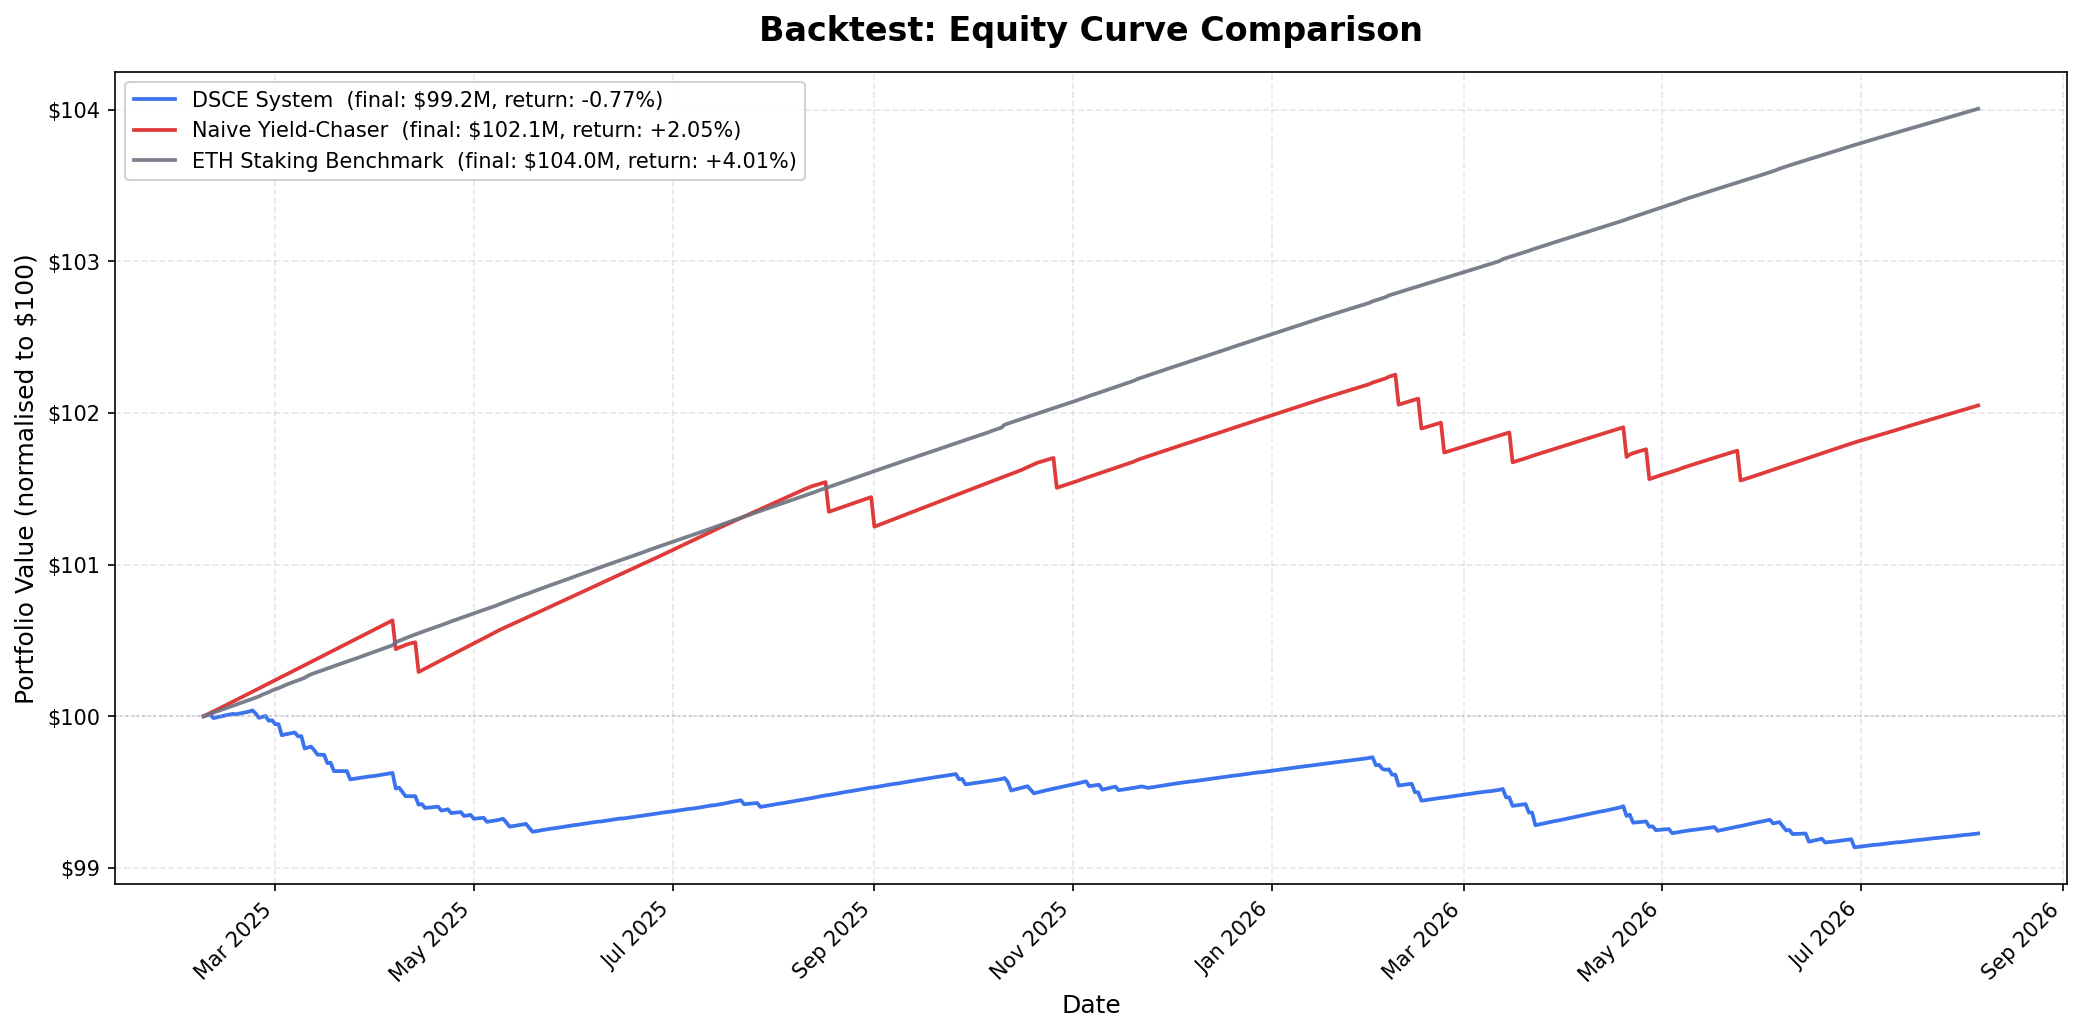
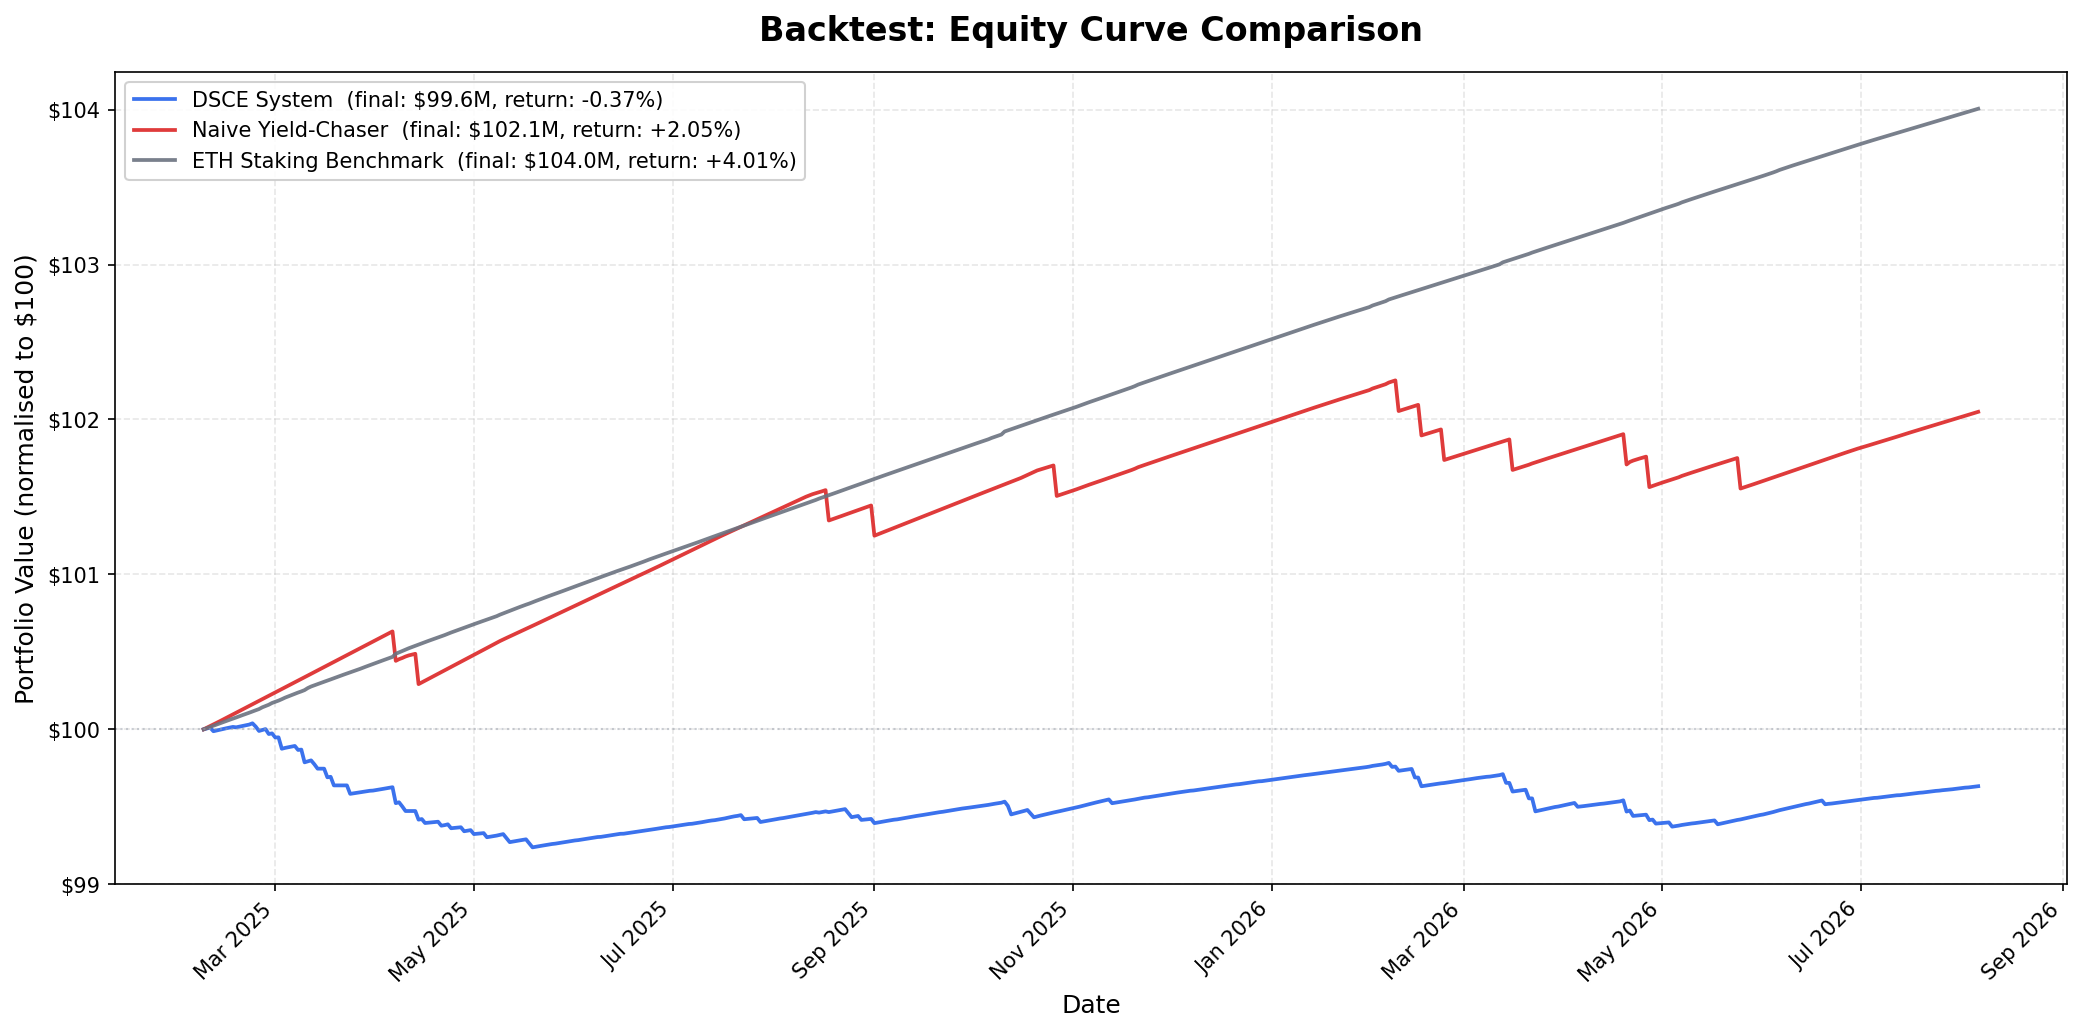
fix: resolve holdout performance metric bugs, image rendering, and markdown layout

diff --git a/backtest/run_backtest.py b/backtest/run_backtest.py
@@ -97,7 +97,7 @@ def prepare_engine_dataset(fetched_data) -> EngineDataset:
             il_data = il_data.reindex(date_range).ffill().fillna(0)
 
     # Remove timezone info from index if present (engine uses naive timestamps)
-    for df_ref in [tvl_data, apy_data]:
+    for df_ref in [tvl_data, apy_data, fetched_data.eth_price]:
         if hasattr(df_ref.index, 'tz') and df_ref.index.tz is not None:
             df_ref.index = df_ref.index.tz_localize(None)
     if il_data is not None and hasattr(il_data.index, 'tz') and il_data.index.tz is not None:
@@ -144,6 +144,26 @@ def main():
     print(f">> Done ({time.time() - start_time:.1f}s)")
     print()
 
+    # ── Step 2.5: Run Holdout Simulation ────────────────────────────
+    print(">> Step 2.5/5: Running holdout simulation...")
+    # Create holdout dataset (last 180 days)
+    holdout_start = engine_dataset.tvl_data.index[-1] - pd.Timedelta(days=180)
+    holdout_tvl = engine_dataset.tvl_data.loc[holdout_start:].copy()
+    holdout_apy = engine_dataset.apy_data.loc[holdout_start:].copy()
+    holdout_eth_price = engine_dataset.eth_price.loc[holdout_start:].copy()
+    holdout_il = engine_dataset.il_data.loc[holdout_start:].copy() if engine_dataset.il_data is not None else None
+    
+    holdout_dataset = EngineDataset(
+        tvl_data=holdout_tvl,
+        apy_data=holdout_apy,
+        eth_price=holdout_eth_price,
+        il_data=holdout_il,
+    )
+    result_holdout = run_backtest(holdout_dataset)
+    print(f"    Simulated holdout period: {(result_holdout.end_date - result_holdout.start_date).days} days")
+    print(f">> Done ({time.time() - start_time:.1f}s)")
+    print()
+
     # ── Step 3: Compute Metrics ─────────────────────────────────────
     print(">> Step 3/5: Computing metrics...")
 
@@ -187,31 +207,27 @@ def main():
         rebalance_counts=result.strategy_rebalances,
     )
     
-    # Slice for Holdout Period (last 180 days)
-    holdout_curves = {}
-    holdout_returns = {}
-    for name, curve in result.equity_curves.items():
-        if len(curve) > 180:
-            holdout_curves[name] = curve.iloc[-180:]
-        else:
-            holdout_curves[name] = curve
-            
-    for name, rets in result.daily_returns.items():
-        if len(rets) > 180:
-            holdout_returns[name] = rets.iloc[-180:]
-        else:
-            holdout_returns[name] = rets
+    # Calculate holdout benchmark APY properly
+    eth_staking_curve_holdout = result_holdout.equity_curves.get(
+        "ETH Staking Benchmark",
+        result_holdout.equity_curves.get("ETH Staking", pd.Series(dtype=float))
+    )
+    if len(eth_staking_curve_holdout) > 1:
+        avg_eth_return_holdout = eth_staking_curve_holdout.pct_change().mean()
+        avg_eth_apy_holdout = avg_eth_return_holdout * 365
+    else:
+        avg_eth_apy_holdout = 0.035
             
     metrics_holdout = compute_all_metrics(
-        equity_curves=holdout_curves,
-        daily_returns=holdout_returns,
-        trigger_log=[],  # Simplified for holdout just to get returns
+        equity_curves=result_holdout.equity_curves,
+        daily_returns=result_holdout.daily_returns,
+        trigger_log=[],  # Simplified for holdout just to get returns and costs
         pool_apy=fetched_data.pool_apy,
         pool_tvl=fetched_data.protocol_tvl,
-        eth_staking_apy=avg_eth_apy,
-        gas_costs={},  # Not recalculating exact gas for holdout
-        slippage_costs={},
-        rebalance_counts={},
+        eth_staking_apy=avg_eth_apy_holdout,
+        gas_costs=result_holdout.strategy_gas,
+        slippage_costs=result_holdout.strategy_slippage,
+        rebalance_counts=result_holdout.strategy_rebalances,
     )
 
     print(f"    Strategies analysed: {list(metrics.strategy_metrics.keys())}")

diff --git a/backtest/output/backtest_report.md b/backtest/output/backtest_report.md
@@ -1,6 +1,6 @@
 # DeFi Strategy Backtest Report
 
-**Generated**: 2026-08-06 18:58 UTC
+**Generated**: 2026-08-06 19:22 UTC
 **Backtest Period**: 2025-02-07 to 2026-08-06
 **Trading Days**: 545
 
@@ -48,21 +48,21 @@ exit, a 7-day cooldown prevents re-entry into that protocol.
 
 ## 2. Executive Summary
 
-**The DSCE system underperformed both alternatives**, returning -0.77% vs +2.05% (naive yield-chasing) and +4.01% (ETH staking). This is a finding worth examining — it suggests the risk triggers may have been too sensitive, causing exits that cost more in missed yield than they saved in avoided losses. Even on a risk-adjusted basis, naive yield-chasing (Sharpe -2.25) edged out DSCE (-11.17).
+**The DSCE system underperformed both alternatives**, returning -0.37% vs +2.05% (naive yield-chasing) and +4.01% (ETH staking). This is a finding worth examining — it suggests the risk triggers may have been too sensitive, causing exits that cost more in missed yield than they saved in avoided losses. Even on a risk-adjusted basis, naive yield-chasing (Sharpe -2.25) edged out DSCE (-11.09).
 
 ## 3. Performance Comparison
 
 | Metric | DSCE System | Naive Yield-Chaser | ETH Staking |
 | --- | --- | --- | --- |
-| Total Return | -0.77% | +2.05% | +4.01% |
-| CAGR | -0.52% | 1.37% | 2.67% |
-| Sharpe Ratio | -11.167 | -2.253 | -0.222 |
-| Max Drawdown | -0.90% | -0.68% | 0.00% |
-| Max DD Date | 2026-06-29 | 2026-05-25 | 2025-02-07 |
-| Annual Volatility | 0.28% | 0.56% | 0.02% |
-| Final NAV | $99.23M | $102.06M | $104.01M |
-| Gas Costs | $1,835 | $120 | $0 |
-| Slippage Costs | $2,573,135 | $2,437,969 | $0 |
+| Total Return | -0.37% | +2.05% | +4.01% |
+| CAGR | -0.25% | 1.37% | 2.67% |
+| Sharpe Ratio | -11.090 | -2.253 | -0.222 |
+| Max Drawdown | -0.80% | -0.68% | 0.00% |
+| Max DD Date | 2025-05-19 | 2026-05-25 | 2025-02-07 |
+| Annual Volatility | 0.26% | 0.56% | 0.02% |
+| Final NAV | $99.64M | $102.06M | $104.01M |
+| Gas Costs | $1,785 | $120 | $0 |
+| Slippage Costs | $2,190,148 | $2,437,969 | $0 |
 | Rebalances | 78 | 12 | 0 |
 
 ### Holdout Window Performance (Final 6 Months)
@@ -71,16 +71,16 @@ exit, a 7-day cooldown prevents re-entry into that protocol.
 
 | Metric | DSCE System | Naive Yield-Chaser | ETH Staking |
 | --- | --- | --- | --- |
-| Total Return | -0.39% | -0.20% | +1.18% |
-| CAGR | -0.79% | -0.40% | 2.43% |
-| Sharpe Ratio | -10.817 | -4.072 | -19.515 |
-| Max Drawdown | -0.48% | -0.68% | 0.00% |
-| Max DD Date | 2026-06-29 | 2026-05-25 | 2026-02-08 |
-| Annual Volatility | 0.32% | 0.74% | 0.01% |
-| Final NAV | $99.23M | $102.06M | $104.01M |
-| Gas Costs | $0 | $0 | $0 |
-| Slippage Costs | $0 | $0 | $0 |
-| Rebalances | 0 | 0 | 0 |
+| Total Return | -0.01% | -0.19% | +1.19% |
+| CAGR | -0.03% | -0.39% | 2.43% |
+| Sharpe Ratio | -9.304 | -3.770 | -0.884 |
+| Max Drawdown | -0.37% | -0.68% | 0.00% |
+| Max DD Date | 2026-05-04 | 2026-05-25 | 2026-02-07 |
+| Annual Volatility | 0.26% | 0.74% | 0.01% |
+| Final NAV | $99.99M | $99.81M | $101.20M |
+| Gas Costs | $595 | $70 | $0 |
+| Slippage Costs | $632,648 | $1,395,287 | $0 |
+| Rebalances | 26 | 7 | 0 |
 
 ### Equity Curves
 
@@ -88,15 +88,15 @@ exit, a 7-day cooldown prevents re-entry into that protocol.
 
 ## 4. Trigger Analysis (DSCE System)
 
-**Total trigger fires**: 50
+**Total trigger fires**: 41
 
 | Trigger Type | Fires | True Positives | False Alarms |
 | --- | --- | --- | --- |
 | apy_anomaly | 27 | 11 | 16 |
-| tvl_drop | 23 | 12 | 11 |
-| **Total** | **50** | **23** | **27** |
+| tvl_drop | 14 | 9 | 5 |
+| **Total** | **41** | **20** | **21** |
 
-**Precision**: 46.0% (fraction of trigger fires that were true positives)
+**Precision**: 48.8% (fraction of trigger fires that were true positives)
 
 ### Trigger Fire Log
 
@@ -123,35 +123,26 @@ exit, a 7-day cooldown prevents re-entry into that protocol.
 | 2025-05-10 | curve-dex | apy_anomaly | WARNING | 100.6 | ❌ false_alarm | — |
 | 2025-05-17 | curve-dex | apy_anomaly | WARNING | 50.1 | ❌ false_alarm | — |
 | 2025-07-22 | curve-dex | apy_anomaly | WARNING | 91.4 | ✅ true_positive | — |
-| 2025-09-26 | morpho | tvl_drop | WARNING | -15.5 | ❌ false_alarm | — |
-| 2025-09-26 | lido | tvl_drop | WARNING | -15.7 | ❌ false_alarm | — |
+| 2025-08-14 | morpho | tvl_drop | WARNING | -15.3 | ❌ false_alarm | — |
+| 2025-08-23 | curve-dex | tvl_drop | WARNING | -16.4 | ✅ true_positive | — |
+| 2025-08-27 | curve-dex | tvl_drop | WARNING | -18.0 | ✅ true_positive | — |
 | 2025-10-11 | lido | apy_anomaly | WARNING | 173.1 | ❌ false_alarm | — |
 | 2025-10-18 | lido | apy_anomaly | WARNING | 63.2 | ❌ false_alarm | — |
-| 2025-11-05 | aave | tvl_drop | WARNING | -16.8 | ✅ true_positive | — |
-| 2025-11-05 | lido | tvl_drop | WARNING | -17.4 | ✅ true_positive | — |
-| 2025-11-14 | pendle | tvl_drop | WARNING | -16.7 | ✅ true_positive | — |
-| 2025-11-22 | morpho | tvl_drop | WARNING | -17.4 | ❌ false_alarm | — |
-| 2026-02-02 | lido | tvl_drop | WARNING | -17.0 | ✅ true_positive | — |
-| 2026-02-03 | lido | tvl_drop | WARNING | -18.4 | ✅ true_positive | — |
-| 2026-02-04 | aave | tvl_drop | WARNING | -15.1 | ✅ true_positive | — |
+| 2025-11-12 | pendle | tvl_drop | WARNING | -15.9 | ✅ true_positive | — |
 | 2026-02-06 | curve-dex | apy_anomaly | WARNING | 211.9 | ❌ false_alarm | — |
-| 2026-02-06 | morpho | tvl_drop | WARNING | -16.9 | ❌ false_alarm | — |
 | 2026-02-13 | lido | apy_anomaly | WARNING | 40.0 | ✅ true_positive | — |
 | 2026-02-13 | curve-dex | apy_anomaly | WARNING | 59.6 | ❌ false_alarm | — |
 | 2026-03-13 | lido | apy_anomaly | WARNING | 95.2 | ❌ false_alarm | — |
 | 2026-03-13 | curve-dex | apy_anomaly | WARNING | 135.6 | ❌ false_alarm | — |
 | 2026-03-20 | lido | apy_anomaly | WARNING | 46.4 | ✅ true_positive | — |
 | 2026-03-20 | curve-dex | apy_anomaly | WARNING | 58.2 | ❌ false_alarm | — |
-| 2026-04-19 | aave | tvl_drop | WARNING | -15.0 | ✅ true_positive | — |
+| 2026-04-04 | pendle | tvl_drop | WARNING | -15.0 | ✅ true_positive | — |
+| 2026-04-19 | aave | tvl_drop | WARNING | -17.5 | ✅ true_positive | — |
 | 2026-04-19 | curve-dex | apy_anomaly | WARNING | 378.2 | ✅ true_positive | — |
-| 2026-04-21 | pendle | tvl_drop | WARNING | -15.1 | ✅ true_positive | — |
 | 2026-04-21 | curve-dex | apy_anomaly | WARNING | 330.7 | ✅ true_positive | — |
+| 2026-04-21 | aave | tvl_drop | CRITICAL | -35.8 | ✅ true_positive | — |
 | 2026-04-28 | curve-dex | apy_anomaly | WARNING | 64.9 | ❌ false_alarm | — |
-| 2026-06-03 | pendle | tvl_drop | WARNING | -15.8 | ✅ true_positive | — |
-| 2026-06-06 | lido | tvl_drop | WARNING | -20.4 | ❌ false_alarm | — |
-| 2026-06-09 | lido | tvl_drop | WARNING | -16.3 | ❌ false_alarm | — |
-| 2026-06-19 | pendle | tvl_drop | WARNING | -20.1 | ❌ false_alarm | — |
-| 2026-06-28 | curve-dex | tvl_drop | WARNING | -15.2 | ❌ false_alarm | — |
+| 2026-06-19 | pendle | tvl_drop | WARNING | -21.9 | ❌ false_alarm | — |
 
 ### Trigger Annotations
 
@@ -161,7 +152,7 @@ exit, a 7-day cooldown prevents re-entry into that protocol.
 
 ### Assessment: Moderately Calibrated ⚠
 
-Trigger precision of 46% shows a mixed picture. The triggers catch 
+Trigger precision of 49% shows a mixed picture. The triggers catch 
 genuine events but also generate significant false alarms that cost yield.
 
 ### Per-Trigger Calibration
@@ -171,7 +162,7 @@ genuine events but also generate significant false alarms that cost yield.
   inherently volatile. Consider raising to 30-40% or using a 14-day lookback 
   to smooth out normal yield fluctuations.
 
-**tvl_drop** (23 fires, 52% precision):
+**tvl_drop** (14 fires, 64% precision):
 - Consider raising to 20% to reduce false alarms while retaining signal.
 
 ### V1 vs V2 Calibration Assessment
